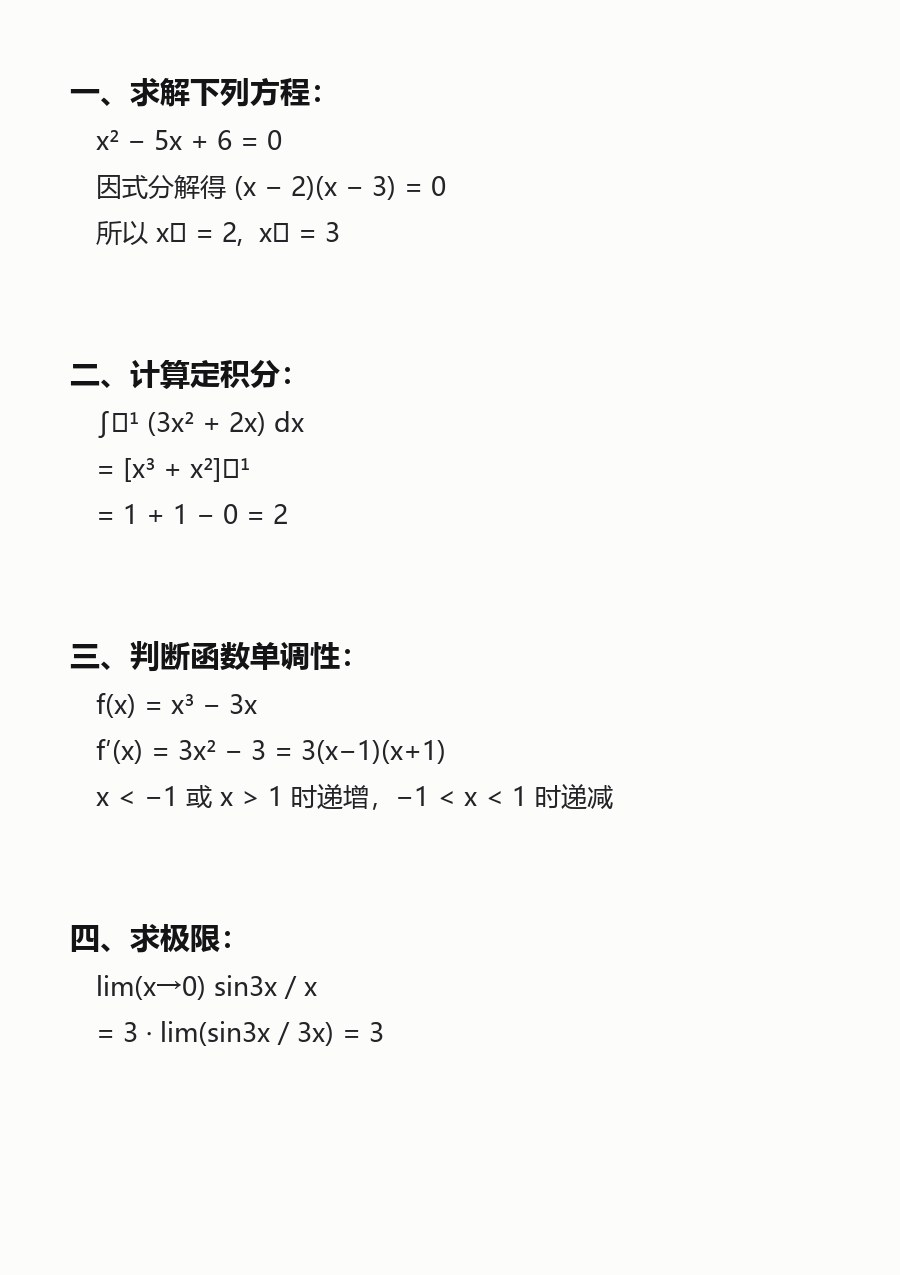
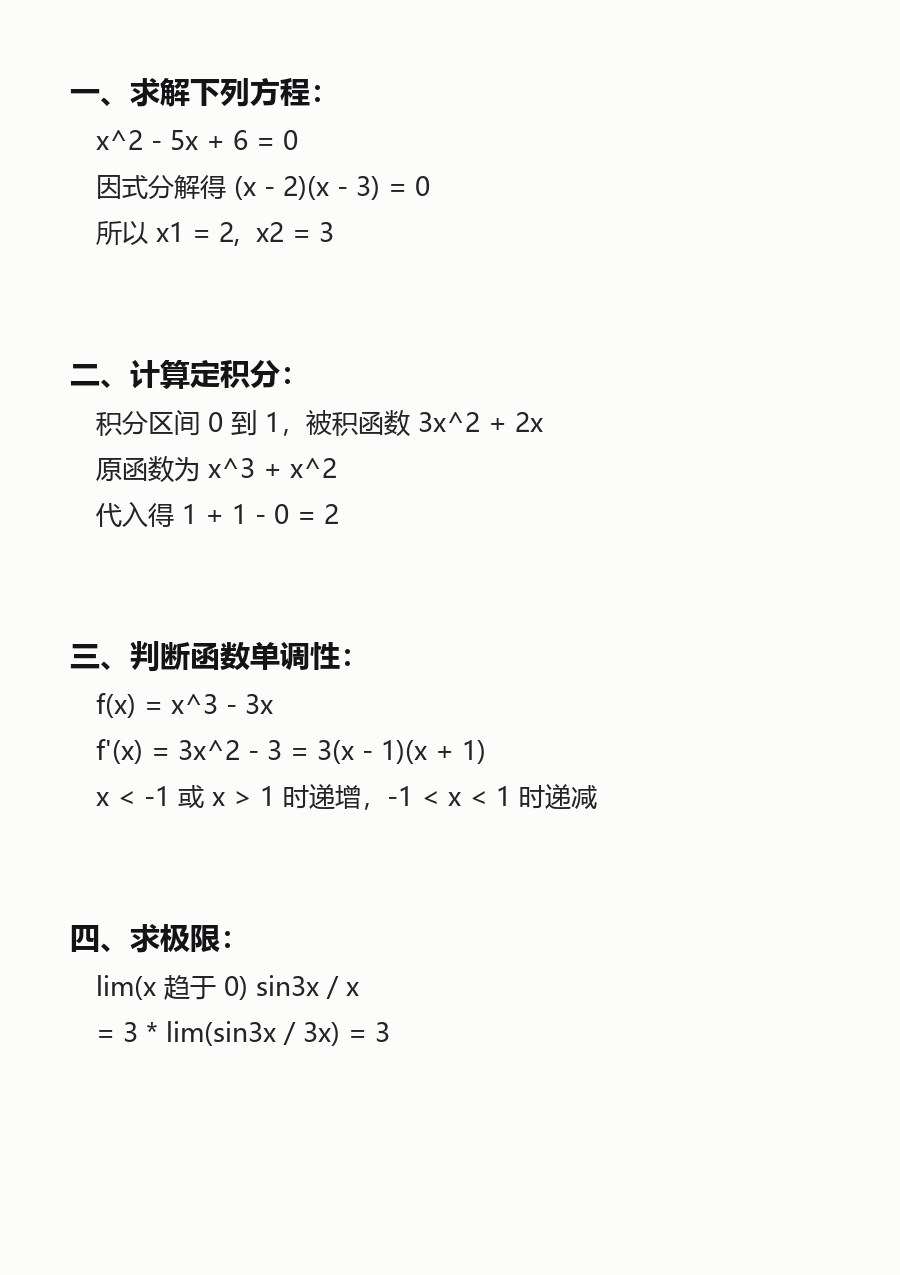
示例图两处修补：① 进编辑器后「用示例图试试」那行要收起来（原来一直挂在顶上）② 重做示例图，原来公式里的 Unicode 下标字符在微软雅黑下渲染成方框，改成 x1/x2 与纯 ASCII 表达式

diff --git a/site/src/main.js b/site/src/main.js
@@ -34,7 +34,7 @@ const inAppBrowser = /MicroMessenger|QQ\/|QQBrowser|Weibo/i.test(UA)
 }
 
 const el = {
-  drop: $('drop'), file: $('file'), btnSample: $('btn-sample'),
+  drop: $('drop'), file: $('file'), btnSample: $('btn-sample'), sampleLine: document.querySelector('.sample-line'),
   editor: $('editor'),
   gap: $('gap'), pad: $('pad'), count: $('count'), outGap: $('out-gap'), outPad: $('out-pad'),
   btnBack: $('btn-back'), btnAuto: $('btn-auto'), btnAdd: $('btn-add'), btnZip: $('btn-zip'),
@@ -94,6 +94,7 @@ async function openFile(file) {
       S.gray = canvasToGray(S.analysis.canvas);
     }
     el.drop.hidden = true;
+    if (el.sampleLine) el.sampleLine.hidden = true;
     el.editor.hidden = false;
     drawPreview();
     // 分析是同步的：先让浏览器把这一帧画出来，再算，否则用户看到的是「点了没反应」
@@ -681,6 +682,7 @@ function backToDrop() {
   document.documentElement.dataset.stage = 'drop';
   el.editor.hidden = true;
   el.drop.hidden = false;
+  if (el.sampleLine) el.sampleLine.hidden = false;
   el.file.value = '';
   S.bmp = null;
   S.base = null;

diff --git a/site/index.html b/site/index.html
@@ -155,6 +155,6 @@
   </p>
 </footer>
 
-<script type="module" src="./src/main.js?v=41"></script>
+<script type="module" src="./src/main.js?v=42"></script>
 </body>
 </html>
